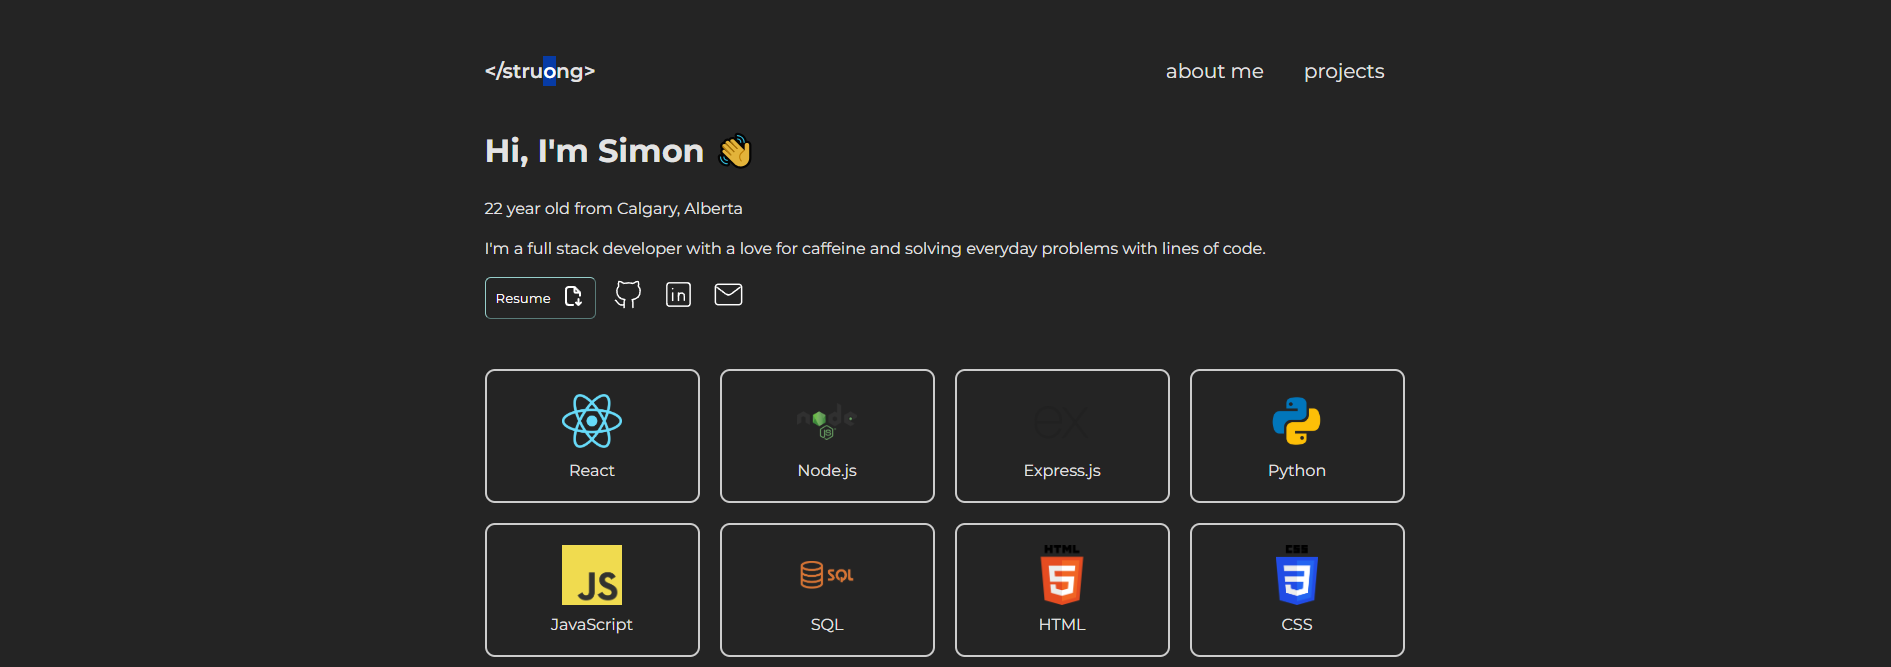
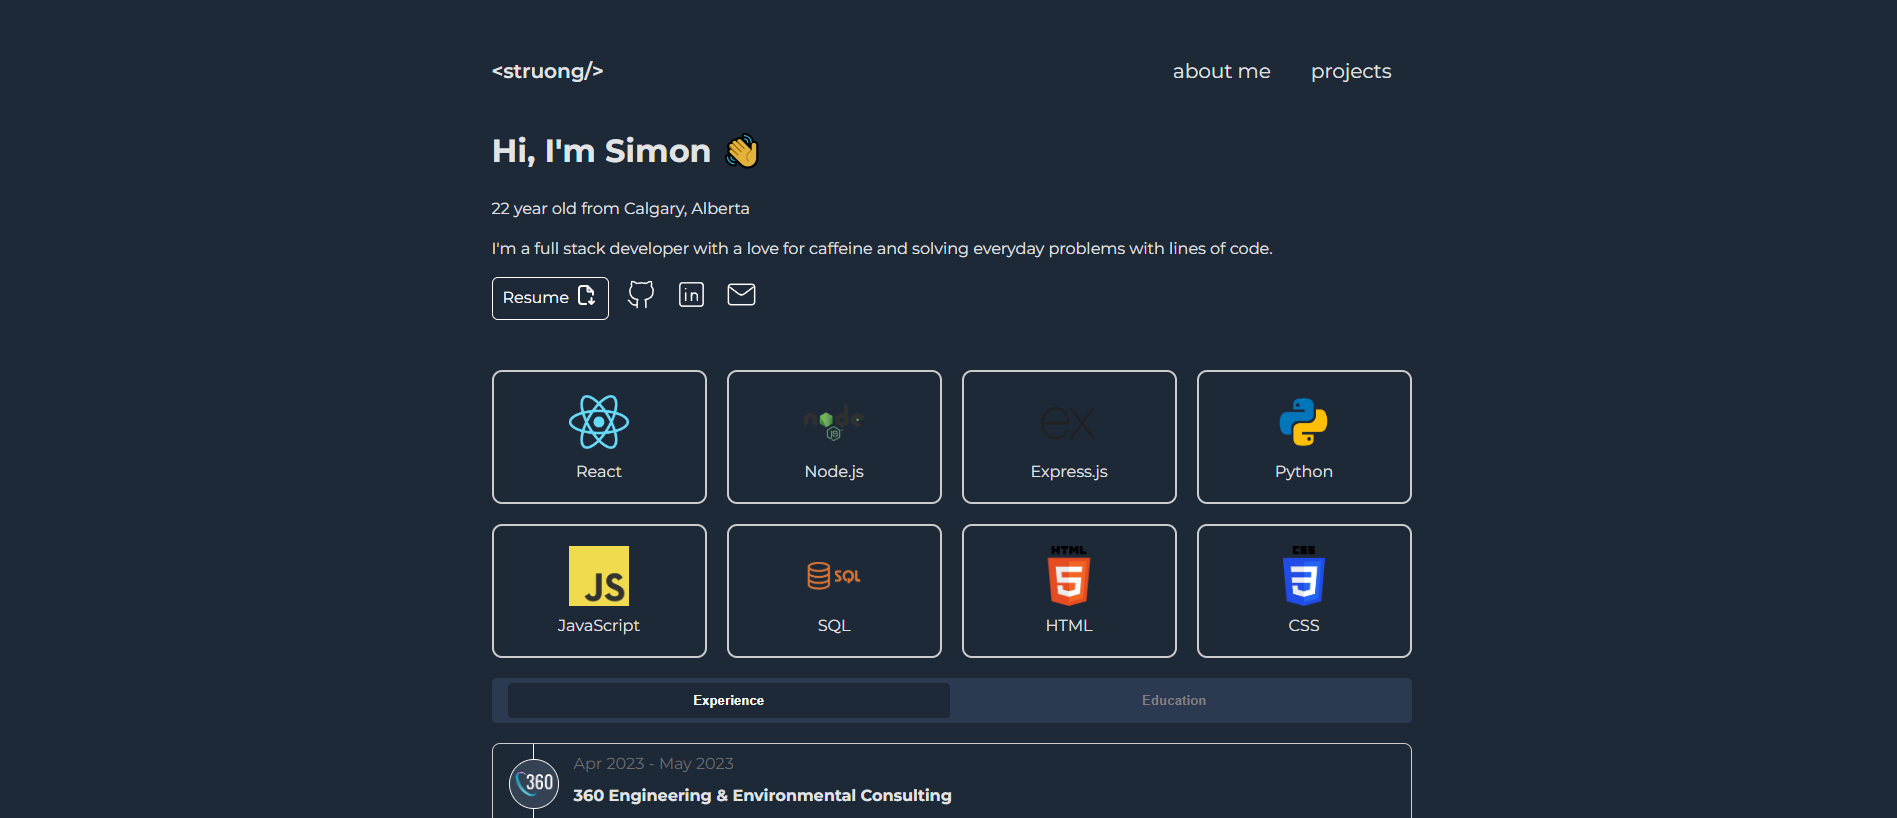
changed color for website and portfolio preview updated

diff --git a/src/styling/TabList.css b/src/styling/TabList.css
@@ -3,7 +3,7 @@
     margin-top: 20px;
     display: flex;
     margin-bottom: 20px;
-    background-color: hsl(0, 0%, 24%);
+    background-color: hsl(215, 30%, 24%);
     align-items: center;
     justify-content: center;
     border-radius: 5px;
@@ -17,7 +17,7 @@
     margin-right: 2px;
     padding: 10px 20px;
     cursor: pointer;
-    background-color: hsl(0, 0%, 24%);
+    background-color: hsl(215, 30%, 24%);
     border: none;
     color: gray;
     border-radius: 4px;
@@ -27,12 +27,12 @@
   }
 
   .tab-trigger:hover {
-    background-color: hsl(0, 0%, 19%);
+    background-color: hsl(215, 30%, 34%);
   }
   
 
   .tab-trigger[data-state='active'] {
-    background-color: hsl(0, 0%, 14%);
+    background-color: hsl(215, 30%, 17%);
     color: white;
   }
   

diff --git a/src/styling/FeaturedProjects.css b/src/styling/FeaturedProjects.css
@@ -22,7 +22,7 @@
   
   .featured-cards:hover {
     transform: scale(1.05);
-    background-color: hsl(0, 0%, 19%);
+    background-color: hsl(215, 30%, 34%);
     cursor: default;
   }
   
@@ -72,7 +72,7 @@
   
   .tag {
     display: inline-block;
-    background-color: #414141;
+    background-color: #6b6b6b;
     color: #fcfcfc;
     padding: 3px 7px;
     margin-right: 8px;
@@ -83,7 +83,7 @@
   }
   
   .tag:hover {
-    background-color: #3a3a3a;
+    background-color: hsl(215, 30%, 27%);
     color: #fff;
   }
   

diff --git a/src/index.css b/src/index.css
@@ -9,7 +9,7 @@
 
   color-scheme: light dark;
   color: rgba(255, 255, 255, 0.87);
-  background-color: hsl(0, 0%, 14%);
+  background-color: hsl(215, 30%, 17%);
 
   font-synthesis: none;
   text-rendering: optimizeLegibility;

diff --git a/src/styling/AboutMe.css b/src/styling/AboutMe.css
@@ -25,7 +25,7 @@
 
 .resume-button:hover {
     cursor: pointer;
-    background-color: hsl(0, 0%, 24%);
+    background-color: hsl(215, 30%, 34%);
 }
 
 .social-icons {

diff --git a/src/styling/Skills.css b/src/styling/Skills.css
@@ -22,7 +22,7 @@
 
 .skill-card:hover {
 
-  background-color: hsl(0, 0%, 19%);
+  background-color: hsl(215, 30%, 34%);
 }
 
 .logo-container {
